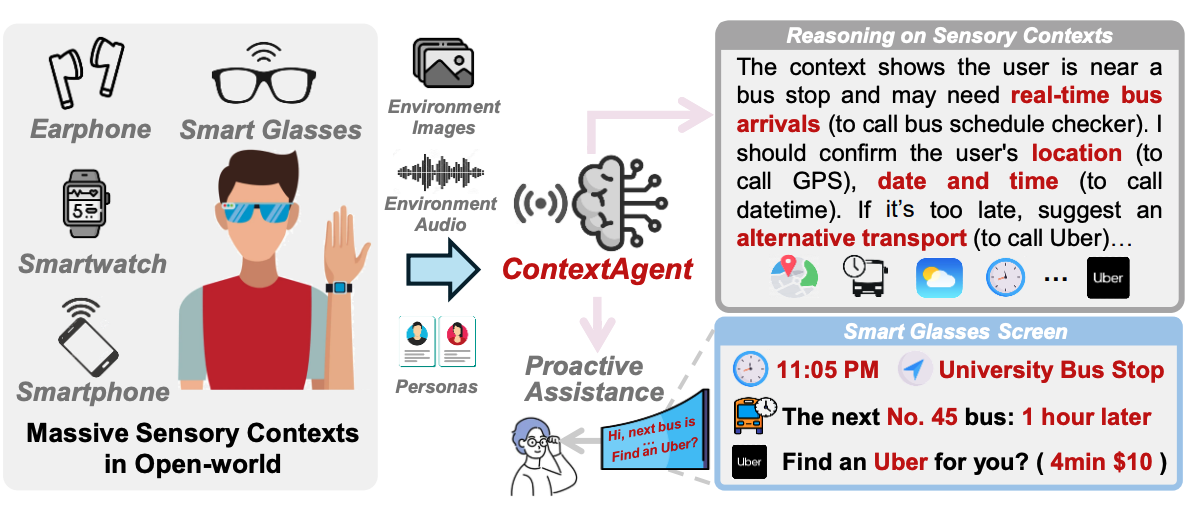
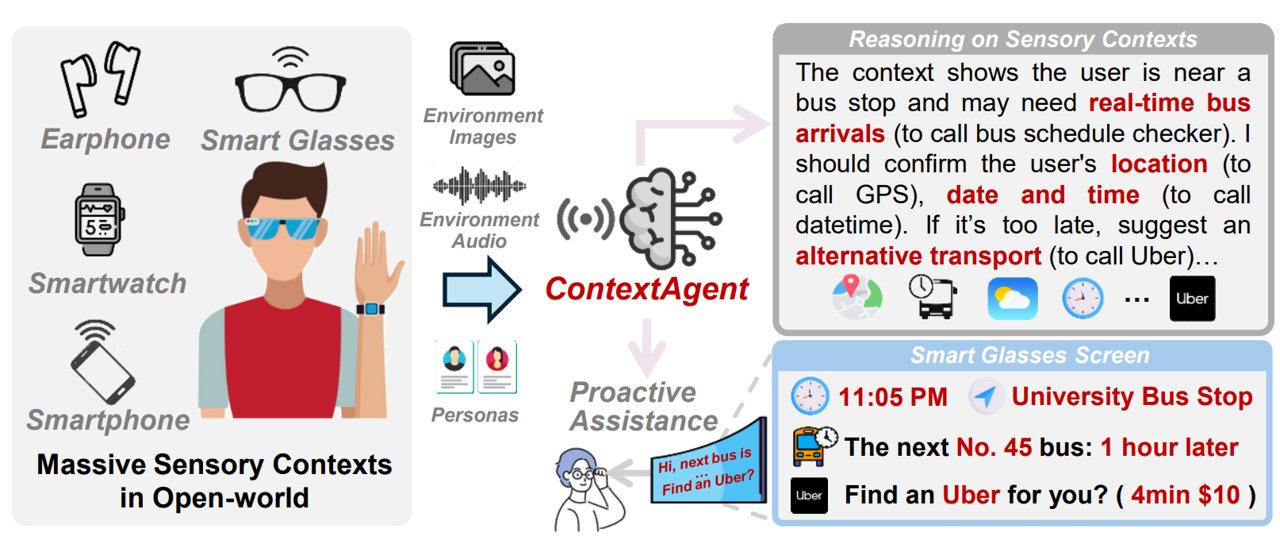
update figures

diff --git a/index.html b/index.html
@@ -198,7 +198,7 @@
         <li class="pub-item">
           <div class="pub-image-wrapper">
             <div class="pub-image">
-              <img src="papers/DrHouse.jpeg" alt="DrHouse" onerror="this.style.display='none'; this.nextElementSibling.style.display='flex';">
+              <img src="papers/DrHouse.png" alt="DrHouse" onerror="this.style.display='none'; this.nextElementSibling.style.display='flex';">
               <div class="pub-image-placeholder">Fig</div>
             </div>
           </div>
@@ -232,7 +232,7 @@
         <li class="pub-item">
           <div class="pub-image-wrapper">
             <div class="pub-image">
-              <img src="papers/EdgeFM.jpeg" alt="EdgeFM" onerror="this.style.display='none'; this.nextElementSibling.style.display='flex';">
+              <img src="papers/EdgeFM.png" alt="EdgeFM" onerror="this.style.display='none'; this.nextElementSibling.style.display='flex';">
               <div class="pub-image-placeholder">Fig</div>
             </div>
           </div>
@@ -296,7 +296,7 @@
         <li class="pub-item">
           <div class="pub-image-wrapper">
             <div class="pub-image">
-              <img src="papers/TaskSense.jpeg" alt="TaskSense" onerror="this.style.display='none'; this.nextElementSibling.style.display='flex';">
+              <img src="papers/TaskSense.png" alt="TaskSense" onerror="this.style.display='none'; this.nextElementSibling.style.display='flex';">
               <div class="pub-image-placeholder">Fig</div>
             </div>
           </div>
